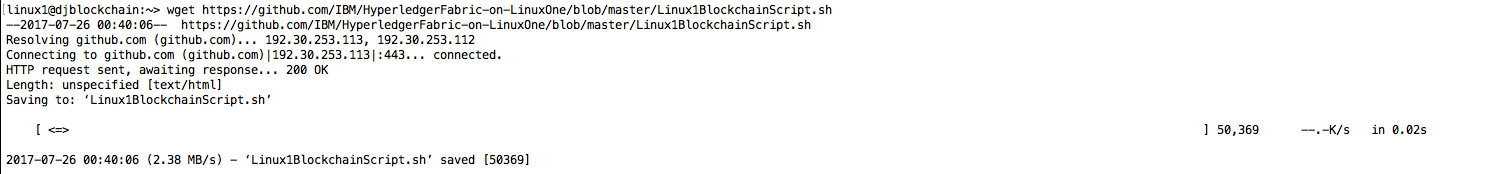
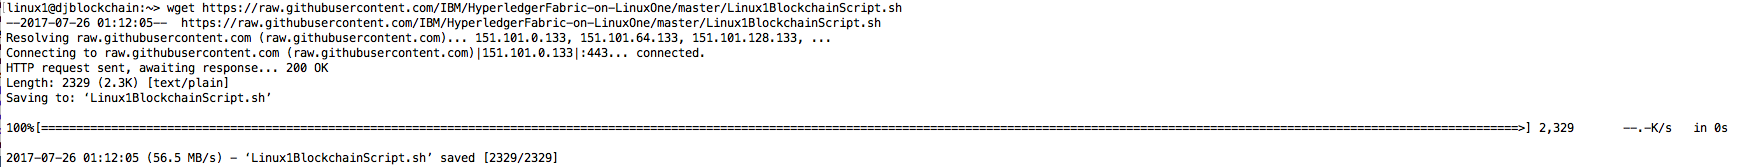
Updated README.md

Changed region(s): [[0.0, 0.0, 0.5524, 0.6287], [0.0, 0.7186, 1.0, 0.8084], [0.0, 0.8683, 0.3682, 0.988]]

diff --git a/README.md b/README.md
@@ -57,6 +57,8 @@ In this section of the journey you will request access to the LinuxONE Community
 
    ![Check your email for the registration confirmation email.](images/RegistrationConfirmationEmail.png)
 
+   #### Create your LinuxONE guest
+
 6. Back in your browser, **enter** the *user ID* and *password* from your email. **Click** *Sign in*.
 
    * Note: Now is a good time to change your password to one you'll remember. This can be done after the initial sign in by selecting your username from the upper right corner of the web page and selecting account settings.
@@ -130,9 +132,11 @@ In this section of the journey you will request access to the LinuxONE Community
 
     ![Success!](images/CommunityCloudWelcome.png)
 
+    #### Setup your Linux guest for Hyperledger Fabric and Hyperledger Composer
+
 21. Now it is time to setup your guest! Run the following command, to move the setup script from the Github Repository to your Linux guest.
 
-    `wget https://github.com/IBM/HyperledgerFabric-on-LinuxOne/blob/master/Linux1BlockchainScript.sh`
+    `wget https://raw.githubusercontent.com/IBM/HyperledgerFabric-on-LinuxOne/master/Linux1BlockchainScript.sh`
 
     ![Import script.](images/WgetSetup.png)
 
@@ -144,11 +148,83 @@ In this section of the journey you will request access to the LinuxONE Community
 
     ![Make the file executable.](images/Linux1ScriptExecutable.png)
 
-24. Before running the script, you'll need to add your user id to the docker group. To do this, enter `usermod 
+24. Before running the script, you'll need to add your user id to the docker group. To do this, enter `sudo user mod -aG docker linux1` . To verify that the command worked, enter `docker` . Your output should look like the image below.
+
+    ![Add user id to docker group.](images/AddIDtoDocker.png)
+
+25. For this changes to take effect for the script, exit the ssh session by typing `exit`.
+
+    ![Exit session.](images/ExitSession.png)
+
+26. Log back in to your guest. `ssh -i DJBlockchain.pem linux1@xxx.xxx.x.x`where x is the values for your guest's IP address. (Refer to step 15 if you need help finding it.)
+
+    ![Log back in to your guest.](images/ReLogin.png)
+
+27. You're ready to run the setup script! Run the script using the following command, `./Linux1BlockchainScript.sh`. Be patient. It takes awhile!
+
+    ![Run setup script.](images/RunSetupScript.png)
+
+28. It's completed when the command line returns. It will look similar to the following image.
+
+    ![Setup script is finished.](images/SetupScriptDone.png)
+
+    #### Verify the installation of Hyperledger Fabric and Hyperledger Composer
+
+29. To verify the installation, we will need to modify your .profile to be able to call newly installed packages. To do this type, `vi .profile`.
+
+    ![Edit .profile](images/Editprofile.png)
+
+30. To edit the .profile take the following actions:
+
+    * Use the **arrow down key** to move the cursor to the last line of the file.
+
+    * Use the **right arrow key** to move the cursor to the last letter of the file.
+
+    * Type `i` to go into insert mode.
+
+    * Hit **enter** twice to create two new lines.
+
+    * Enter the following, `export PATH=/data/npm/bin:$PATH
+
+    * Hit **escape**.
+
+    * Enter `wq` and hit **enter** to save your changes.
+
+      ![Edit your .profile.](images/ExportPathProfile.png)
+
+31. For the changes to take place, exit your ssh session by typing `exit`.
+
+    ![Exit session.](images/ExitSession.png)
+
+32. Log back in to your guest. `ssh -i DJBlockchain.pem linux1@xxx.xxx.x.x`where x is the values for your guest's IP address. (Refer to step 15 if you need help finding it.)
+
+    ![Log back in to your guest.](images/ReLogin.png)
+
+33. To see if your blockchain network is up and running, use the command `docker ps -a`. You should see 4 containers with image names like the ones shown below.
+
+    ![Running fabric containers.](images/RunningFabricContainers.png)
+
+34. Verify that the composer command line interface and other tools were installed by entering `composer -v`.
+
+    ![Verify Composer tools installation.](images/VerifyComposerCLI.png)
+
+35. Verify Composer Playground is running by looking for its process using the command, `ps -ef|grep playground`. 
+
+    ![Verify Composer Playground is running.](images/VerifyComposerPlaygroundRunning.png)
+
+36. Open a browser and enter `xxx.xxx.x.x:8080` into the address bar where the x's correspond to your Linux guest's IP address. You should see the following:
+
+    ![Loading Composer Playground.](images/ComposerPlaygroundUI1.png)
+
+    ![Loaded Composer Playground.](images/ComposerPlaygroundUI2.png)
+
+37. Congratulations! Part 1 is now complete! Lets get to work on the fun part. :smiley:
 
 
+### Part 2 — Creating a blockchain application and generating API
 
-#### Defining your blockchain network
+#### Importing the components of your blockchain application
+
 1. Open the GitHub [repository for this lab](https://github.com/SweetJenn23/BlockchainLab).
    ![GitHub Repository](images/Part1_Step1.png)
 
